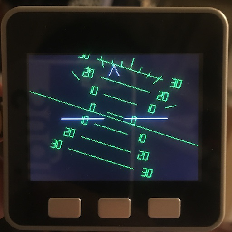
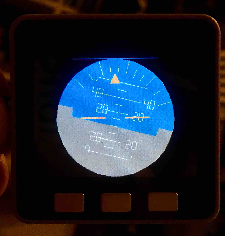
.

diff --git a/M5Stack Gray.md b/M5Stack Gray.md
@@ -136,9 +136,6 @@ while True:
 
 もうちょっとがんばって、Attitude indicator (航空機の姿勢表示器)を作ってみた。
 
-![https://i.gyazo.com/ebe2644861c13c60d4da30eac27432b7.jpg](https://i.gyazo.com/ebe2644861c13c60d4da30eac27432b7.jpg)
-
-
 ```python
 from m5stack import *
 from m5ui import *
@@ -218,6 +215,25 @@ while True:
     number(abs(i*10), cx-by*(scale+2)//6+px, cy-bx*(scale+2)//6-py, by//12, bx//12, 0x008000)
   wait_ms(1)
 ```
+
+## Arduino
+
+MicroPythonで幸せになれるかと思ったが、やはり遅い。特に、グラフィックスライブラリの遅さをごまかしきれない(バッファーに描けないので)。
+
+以下のサイトの説明に従いfirmwareとlibraryをインストール。
+
+* [https://docs.m5stack.com/#/ja/quick_start/m5core/m5stack_core_get_started_Arduino_MacOS](https://docs.m5stack.com/#/ja/quick_start/m5core/m5stack_core_get_started_Arduino_MacOS)
+
+...
+
+画面がちらちらするのは、Spriteを使ってダブルバッファーに作画すればいいことがわかった。
+
+いろいろ苦労した結果、一応姿勢表示器らしいものが作れた。
+
+![](https://i.gyazo.com/9686054845975ac83b1459cb4494ee55.jpg)
+
+コードは[こちら](https://github.com/vitroid/M5Stack/tree/master/Gray/AttitudeIndicatorArd)。
+
 
 [M5Stack](/M5Stack)
 [2019夏の自由研究](/2019夏の自由研究)

diff --git a/MD/M5Stack Gray.md b/MD/M5Stack Gray.md
@@ -133,9 +133,6 @@ while True:
 
 もうちょっとがんばって、Attitude indicator (航空機の姿勢表示器)を作ってみた。
 
-https://i.gyazo.com/ebe2644861c13c60d4da30eac27432b7.jpg
-
-
 ```python
 from m5stack import *
 from m5ui import *
@@ -215,6 +212,25 @@ while True:
     number(abs(i*10), cx-by*(scale+2)//6+px, cy-bx*(scale+2)//6-py, by//12, bx//12, 0x008000)
   wait_ms(1)
 ```
+
+## Arduino
+
+MicroPythonで幸せになれるかと思ったが、やはり遅い。特に、グラフィックスライブラリの遅さをごまかしきれない(バッファーに描けないので)。
+
+以下のサイトの説明に従いfirmwareとlibraryをインストール。
+
+* https://docs.m5stack.com/#/ja/quick_start/m5core/m5stack_core_get_started_Arduino_MacOS
+
+...
+
+画面がちらちらするのは、Spriteを使ってダブルバッファーに作画すればいいことがわかった。
+
+いろいろ苦労した結果、一応姿勢表示器らしいものが作れた。
+
+![](https://i.gyazo.com/9686054845975ac83b1459cb4494ee55.jpg)
+
+コードは[こちら](https://github.com/vitroid/M5Stack/tree/master/Gray/AttitudeIndicatorArd)。
+
 
 #M5Stack
 #2019夏の自由研究
